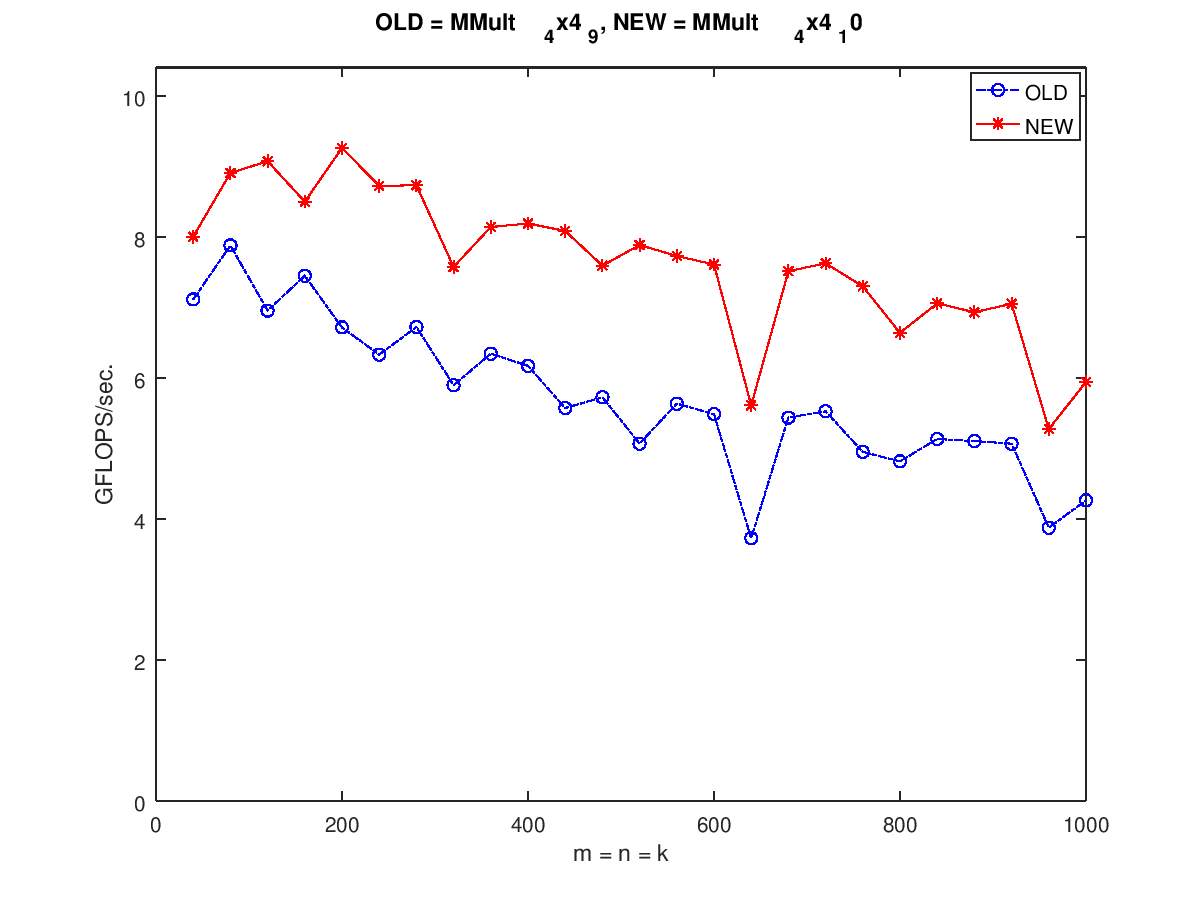
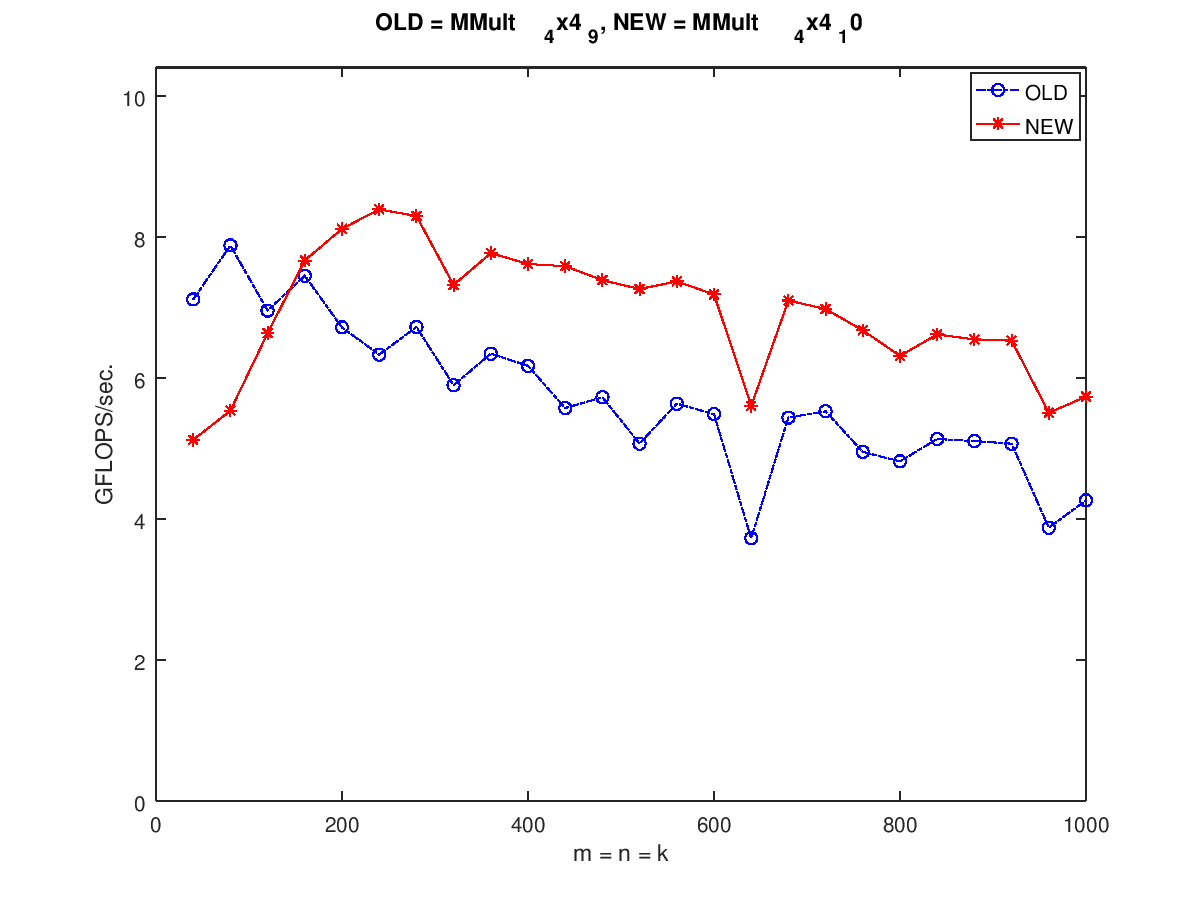
split A & B into blocks, smaller than L2 cache

diff --git a/src/HowToOptimizeGemm/output_old.m b/src/HowToOptimizeGemm/output_old.m
@@ -1,28 +1,28 @@
-version = 'MMult_4x4_9';
+version = 'MMult_4x4_10';
 MY_MMult = [
-40 7.111111e+00 2.664535e-15 
-80 7.876923e+00 7.105427e-15 
-120 6.953722e+00 1.065814e-14 
-160 7.447273e+00 1.421085e-14 
-200 6.714226e+00 1.421085e-14 
-240 6.329670e+00 1.776357e-14 
-280 6.720343e+00 1.776357e-14 
-320 5.894585e+00 2.842171e-14 
-360 6.343009e+00 2.309264e-14 
-400 6.170459e+00 2.842171e-14 
-440 5.571405e+00 3.197442e-14 
-480 5.724668e+00 3.907985e-14 
-520 5.067685e+00 3.907985e-14 
-560 5.634226e+00 4.618528e-14 
-600 5.485018e+00 4.263256e-14 
-640 3.726680e+00 4.440892e-14 
-680 5.436614e+00 5.329071e-14 
-720 5.525916e+00 4.973799e-14 
-760 4.950420e+00 4.973799e-14 
-800 4.814587e+00 4.973799e-14 
-840 5.132525e+00 6.394885e-14 
-880 5.103168e+00 7.105427e-14 
-920 5.066186e+00 6.394885e-14 
-960 3.875925e+00 6.394885e-14 
-1000 4.262675e+00 6.394885e-14 
+40 5.120000e+00 2.664535e-15 
+80 5.535135e+00 7.105427e-15 
+120 6.633397e+00 1.065814e-14 
+160 7.663237e+00 1.421085e-14 
+200 8.113590e+00 1.421085e-14 
+240 8.388350e+00 1.776357e-14 
+280 8.294729e+00 1.776357e-14 
+320 7.315919e+00 2.842171e-14 
+360 7.768879e+00 2.309264e-14 
+400 7.614062e+00 2.842171e-14 
+440 7.582695e+00 3.197442e-14 
+480 7.384369e+00 3.907985e-14 
+520 7.259060e+00 3.907985e-14 
+560 7.366288e+00 4.618528e-14 
+600 7.183239e+00 4.263256e-14 
+640 5.601547e+00 4.440892e-14 
+680 7.096266e+00 5.329071e-14 
+720 6.975490e+00 4.973799e-14 
+760 6.672788e+00 4.973799e-14 
+800 6.311209e+00 4.973799e-14 
+840 6.615148e+00 6.394885e-14 
+880 6.544906e+00 7.105427e-14 
+920 6.527361e+00 6.394885e-14 
+960 5.504417e+00 6.394885e-14 
+1000 5.733090e+00 6.394885e-14 
 ];

diff --git a/src/HowToOptimizeGemm/output_MMult_4x4_10.m b/src/HowToOptimizeGemm/output_MMult_4x4_10.m
@@ -1,28 +1,28 @@
 version = 'MMult_4x4_10';
 MY_MMult = [
-40 8.000000e+00 9.799315e+00 
-80 8.904348e+00 1.656900e+01 
-120 9.070866e+00 1.948485e+01 
-160 8.497925e+00 2.102247e+01 
-200 9.259259e+00 3.109622e+01 
-240 8.721767e+00 3.164828e+01 
-280 8.730165e+00 3.596080e+01 
-320 7.571165e+00 3.499085e+01 
-360 8.139567e+00 3.855553e+01 
-400 8.187808e+00 4.359819e+01 
-440 8.082357e+00 4.341037e+01 
-480 7.590652e+00 5.302775e+01 
-520 7.882719e+00 4.818904e+01 
-560 7.727707e+00 5.181722e+01 
-600 7.606437e+00 5.576506e+01 
-640 5.608438e+00 5.865541e+01 
-680 7.511694e+00 5.862816e+01 
-720 7.623763e+00 5.663620e+01 
-760 7.296748e+00 6.038572e+01 
-800 6.637799e+00 6.267085e+01 
-840 7.055748e+00 6.455942e+01 
-880 6.929860e+00 6.891745e+01 
-920 7.050396e+00 7.138818e+01 
-960 5.274684e+00 8.199282e+01 
-1000 5.940235e+00 7.724103e+01 
+40 5.120000e+00 2.664535e-15 
+80 5.535135e+00 7.105427e-15 
+120 6.633397e+00 1.065814e-14 
+160 7.663237e+00 1.421085e-14 
+200 8.113590e+00 1.421085e-14 
+240 8.388350e+00 1.776357e-14 
+280 8.294729e+00 1.776357e-14 
+320 7.315919e+00 2.842171e-14 
+360 7.768879e+00 2.309264e-14 
+400 7.614062e+00 2.842171e-14 
+440 7.582695e+00 3.197442e-14 
+480 7.384369e+00 3.907985e-14 
+520 7.259060e+00 3.907985e-14 
+560 7.366288e+00 4.618528e-14 
+600 7.183239e+00 4.263256e-14 
+640 5.601547e+00 4.440892e-14 
+680 7.096266e+00 5.329071e-14 
+720 6.975490e+00 4.973799e-14 
+760 6.672788e+00 4.973799e-14 
+800 6.311209e+00 4.973799e-14 
+840 6.615148e+00 6.394885e-14 
+880 6.544906e+00 7.105427e-14 
+920 6.527361e+00 6.394885e-14 
+960 5.504417e+00 6.394885e-14 
+1000 5.733090e+00 6.394885e-14 
 ];

diff --git a/src/HowToOptimizeGemm/MMult_4x4_11.c b/src/HowToOptimizeGemm/MMult_4x4_11.c
@@ -6,20 +6,45 @@
 
 /* Routine for computing C = A * B + C */
 
+#define mc 256
+#define kc 128
+
+#define min(i, j) ((i) < (j) ? (i): (j))
+
+
+
 void AddDot4x4(int k, double *a, int lda, double *b, int ldb, double *c, int ldc);
 void MY_MMult( int m, int n, int k, double *a, int lda, 
                                     double *b, int ldb,
                                     double *c, int ldc )
 {
-  int i, j;
+  int i, j, p, pb, ib;
 
-  for ( j=0; j<n; j+=4 ){        /* Loop over the columns of C , count 4 per time*/
-    for ( i=0; i<m; i+=4 ){        /* Loop over the rows of C */
-      /* Update the C( i,j ) with the inner product of the ith row of A
-	 and the jth column of B */
+/*
+  for ( j=0; j<n; j+=4 ){        // Loop over the columns of C , count 4 per time
+    for ( i=0; i<m; i+=4 ){        // Loop over the rows of C 
 
       AddDot4x4(k, &A(i, 0), lda, &B(0, j), ldb, &C(i,j), ldc);
+    }
+  }
+*/
+  for (p = 0; p < k; p += kc){
+    pb = min(k - p, kc);
+    for(i = 0; i < m; i += mc){
+      ib = min(m - i, mc);
+      InnerKernel(ib, n, pb, &A(i, p), lda, &B(p, 0), ldb, &C(i, 0), ldc);
+    }
+  }
+}
 
+void InnerKernel(int m, int n, int k, double *a, int lda,
+                                      double *b, int ldb,
+                                      double *c, int ldc)
+{
+  int i, j;
+  for (int j = 0; j < n; j += 4){
+    for(int i = 0; i < m; i += 4){
+      AddDot4x4(k, &A(i, 0), lda, &B(0, j), ldb, &C(i, j), ldc);
     }
   }
 }
